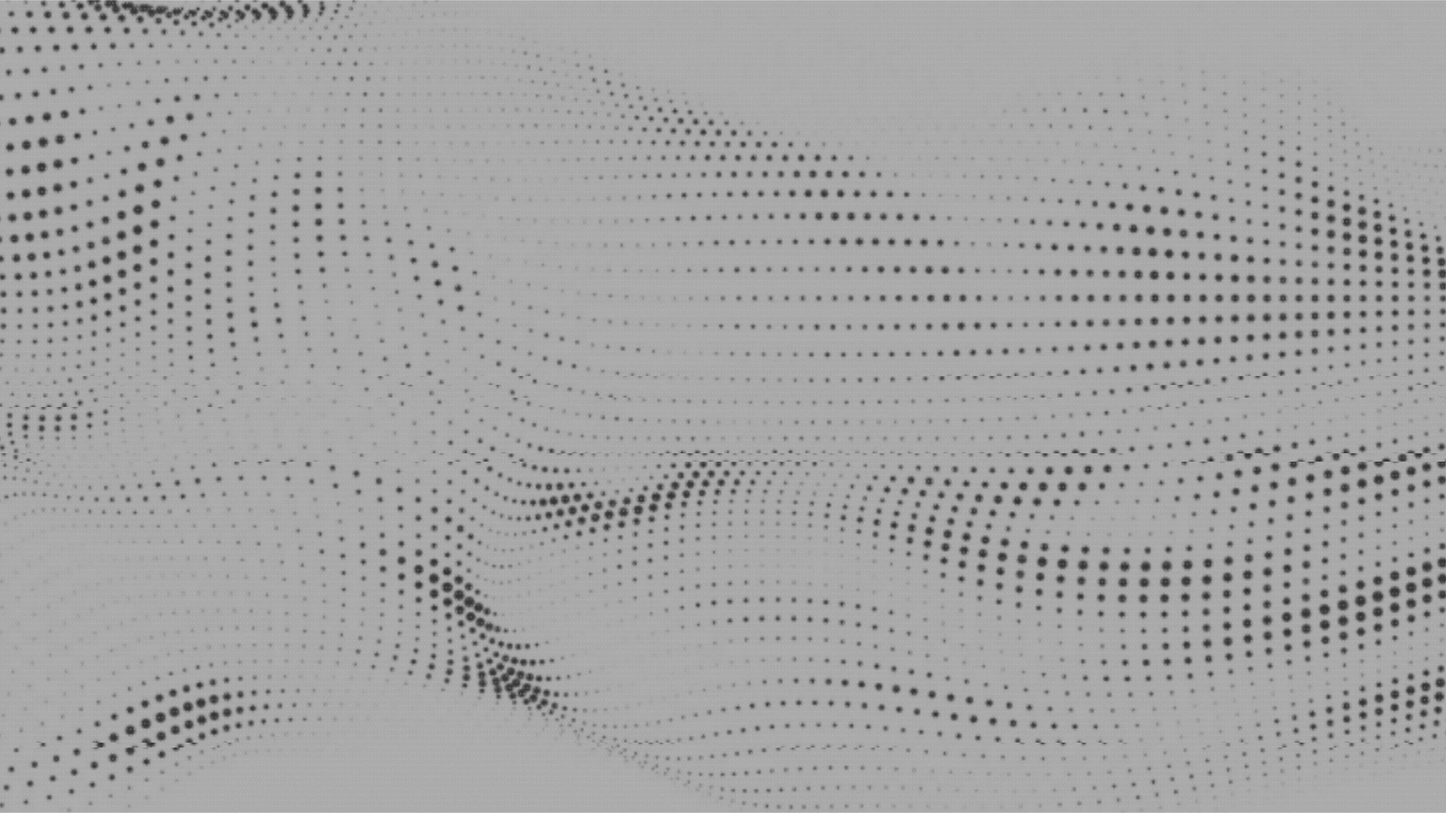
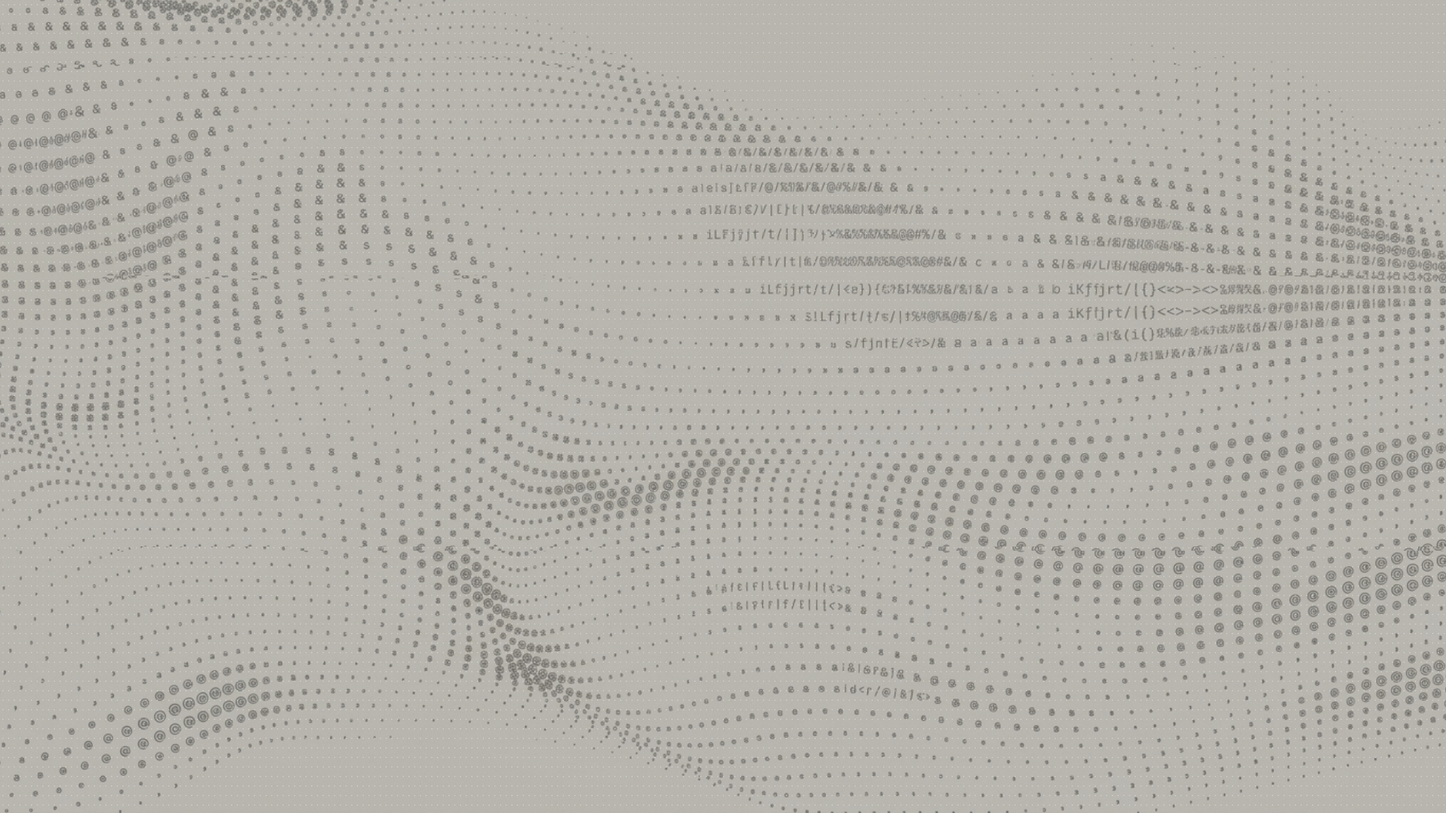
Use coloured high-resolution ASCII background

diff --git a/README.md b/README.md
@@ -94,7 +94,7 @@ The terminal keeps the Oxocarbon ANSI hues on the warm H1 ground:
 
 ## Backgrounds
 
-- `backgrounds/ascii-art.png` — halftone dot flow (default)
+- `backgrounds/ascii-art.png` — coloured ASCII halftone flow (default)
 - `backgrounds/light.jpg` — warm H1 gradient
 - `alt-backgrounds/` — original Oxocarbon dark wallpapers
 
